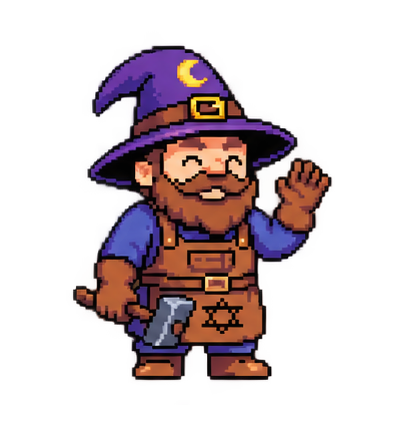
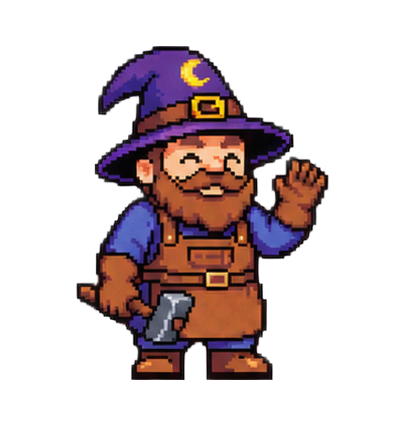
Tom sem o símbolo no avental, nas 9 poses (1.14.1)
Editado no ChatGPT a partir da grade com as 9 poses; recortado de volta em 402x436 com a figura
na mesma altura e posição de antes e o contorno quase transparente limpo.

Changed region(s): [[0.1791, 0.0894, 0.8358, 0.8945]]

diff --git a/src/app/release-notes/release-notes.ts b/src/app/release-notes/release-notes.ts
@@ -33,6 +33,17 @@ export interface Release {
 
 export const RELEASES: Release[] = [
   {
+    version: '1.14.1',
+    date: '2026-10-27',
+    title: 'Avental novo do Tom',
+    changes: [
+      {
+        kind: 'melhoria',
+        text: 'O Tom, o ferreiro que ajuda pelo site, ganhou um avental liso, sem o símbolo que ficava na frente, em todas as poses.',
+      },
+    ],
+  },
+  {
     version: '1.14.0',
     date: '2026-10-27',
     title: 'Bestiário com cara de carta e busca com filtros',
